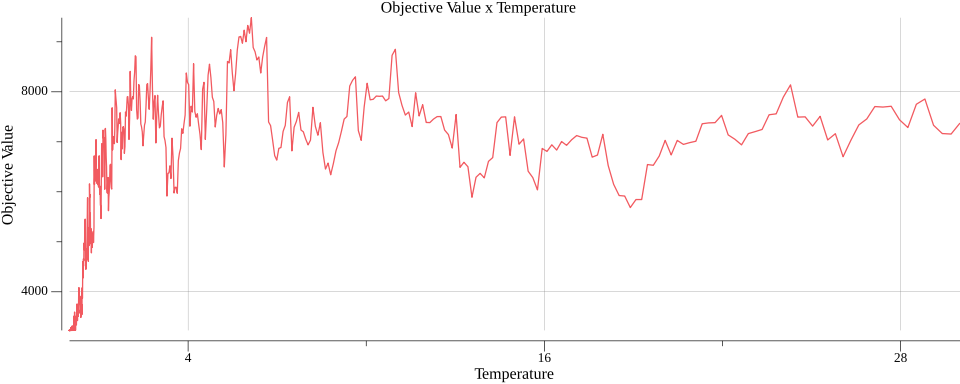
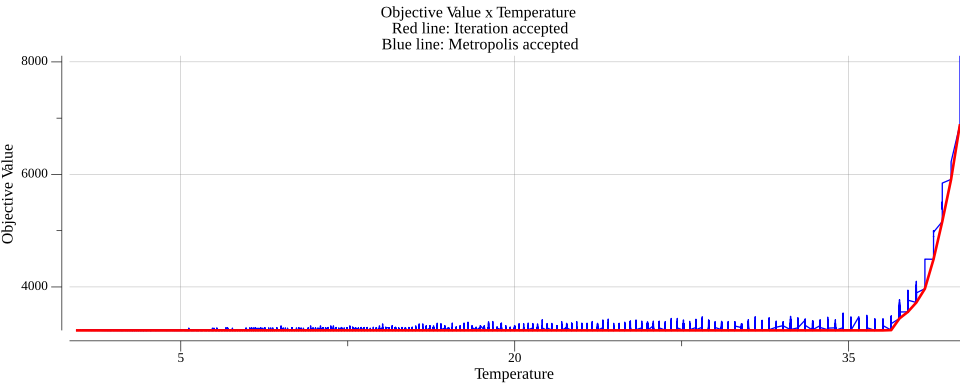
added metropolis

diff --git a/meta-heuristica/simulated_annealing/simulated_annealing.go b/meta-heuristica/simulated_annealing/simulated_annealing.go
@@ -1,8 +1,10 @@
 package simulated_annealing
 
 import (
+	"fmt"
 	"math"
 	"math/rand"
+	"sort"
 	"time"
 
 	"gonum.org/v1/plot/plotter"
@@ -22,7 +24,7 @@ func (sai SimulatedAnnealingInstance) VerifySolution() bool {
 	return true
 }
 
-func (sai SimulatedAnnealingInstance) VerifySolution2(walkOrder []int) bool {
+func (sai SimulatedAnnealingInstance) VerifyThisSolution(walkOrder []int) bool {
 	currentLoad := sai.ProblemInstance.GetInitialLoad()
 
 	for _, step := range walkOrder {
@@ -90,7 +92,7 @@ func (sai SimulatedAnnealingInstance) GetFirstSolution() []int {
 	for p := make([]int, len(orig)); p[0] < len(p); nextPerm(p) {
 		permutation := getPerm(orig, p)
 		permutation = append(permutation, 0)
-		if sai.VerifySolution2(permutation) {
+		if sai.VerifyThisSolution(permutation) {
 			return permutation
 		}
 	}
@@ -191,7 +193,7 @@ func (sai SimulatedAnnealingInstance) GetNeighbor(except [][]int) []int {
 				continue
 			}
 
-			valid := sai.VerifySolution2(copied)
+			valid := sai.VerifyThisSolution(copied)
 			if valid {
 				return copied
 			}
@@ -223,7 +225,39 @@ func (sai SimulatedAnnealingInstance) GetNeighbors() [][]int {
 				continue
 			}
 
-			valid := sai.VerifySolution2(copied)
+			valid := sai.VerifyThisSolution(copied)
+			if valid {
+				neighbors = append(neighbors, copied)
+			}
+		}
+	}
+
+	return neighbors
+}
+
+func (sai SimulatedAnnealingInstance) GetNeighborsOfSolution(solution []int) [][]int {
+	neighbors := make([][]int, 0)
+	for i := 0; i < len(solution); i++ {
+		for j := 0; j < len(solution); j++ {
+			copied := make([]int, len(solution))
+
+			copy(copied, solution)
+
+			a := copied[i]
+			b := copied[j]
+
+			if a == 0 || b == 0 {
+				continue
+			}
+
+			copied[i] = b
+			copied[j] = a
+
+			if isEqual(copied, solution) {
+				continue
+			}
+
+			valid := sai.VerifyThisSolution(copied)
 			if valid {
 				neighbors = append(neighbors, copied)
 			}
@@ -241,74 +275,109 @@ func randInt(min, max int) int {
 	return rand.Intn(max-min) + min
 }
 
+func randFloat(min, max float32) float32 {
+	if max-min == 0 {
+		return 0
+	}
+	return min + rand.Float32()*(max-min)
+}
+
 func getRandomNeighborExcept(neighbors [][]int, except [][]int) []int {
 	toGet := randInt(0, len(neighbors)-1)
 	for containsArr(neighbors[toGet], except) {
-		toGet = randInt(0, len(neighbors))
+		toGet = randInt(0, len(neighbors)-1)
 	}
 
 	return neighbors[toGet]
 }
 
+func (sai *SimulatedAnnealingInstance) metropolis(neighbors [][]int, T float32, params SimulatedAnnealingParams) Solution {
+	sol := Solution{
+		WalkOrder:        sai.Solution.WalkOrder,
+		TraveledDistance: sai.Solution.TraveledDistance,
+	}
+
+	acceptances := 0
+	count := 0
+	used := [][]int{}
+
+	//neighborToGet := 0
+	sort.SliceStable(neighbors, func(i, j int) bool {
+		return sai.ObjectiveValueWithSolution(neighbors[i]) < sai.ObjectiveValueWithSolution(neighbors[j])
+	})
+	for {
+		si := getRandomNeighborExcept(neighbors, [][]int{})
+
+		siVal := sai.ObjectiveValueWithSolution(si)
+		currVal := sai.ObjectiveValue()
+		delta := siVal - currVal
+		random := randFloat(0, 1)
+		if delta <= 0 || (math.Exp(float64(float32(-delta)/(T)))) > float64(random) {
+			sol.WalkOrder = si
+			sol.TraveledDistance = siVal
+			acceptances++
+			neighbors = sai.GetNeighborsOfSolution(sol.WalkOrder)
+			used = append(used, si)
+
+		}
+
+		count++
+		if acceptances >= params.MaxAcceptances || count >= params.MetropolisLimit {
+			break
+		}
+	}
+	sai.MetropolisPoints = append(sai.MetropolisPoints, plotter.XY{X: float64(T), Y: float64(sol.TraveledDistance)})
+	return sol
+}
+
 func (sai *SimulatedAnnealingInstance) Solve(timeLimit int64, params SimulatedAnnealingParams) {
 	sai.Solution = &Solution{
-		BKV:       0,
-		WalkOrder: make([]int, 0),
+		TraveledDistance: 0,
+		WalkOrder:        make([]int, 0),
 	}
 	sai.Solution.WalkOrder = sai.GenerateValidRandomInitialSolution(sai.ProblemInstance.N)
-	sai.Solution.BKV = sai.ObjectiveValue()
+	sai.Solution.TraveledDistance = sai.ObjectiveValue()
 
 	T := float32(params.T0)
 	j := 1
-	successes := 0
 
 	solutions := [][]int{}
+
 	for true {
 		i := 1
-		successes = 0
 
 		neighbors := sai.GetNeighbors()
-		iterationSolutions := make([][]int, 0)
 		for true {
-			used := [][]int{}
-			si := getRandomNeighborExcept(neighbors, used)
-			siVal := sai.ObjectiveValueWithSolution(si)
-			currVal := sai.ObjectiveValue()
-			delta := siVal - currVal
-			if delta <= 0 || (math.Exp(float64(float32(-delta)/(T)))) > float64(randInt(0, 1)) {
-				// accepts new solution
-				sai.Solution.WalkOrder = si
-				sai.Solution.BKV = siVal
-				successes++
-				iterationSolutions = append(iterationSolutions, si)
+			sl := sai.metropolis(neighbors, T, params)
+			currentObjectiveValue := sai.ObjectiveValue()
+
+			if sl.TraveledDistance <= currentObjectiveValue {
+				sai.Solution = &sl
 			}
 
-			i += 1
-			used = append(used, si)
-			if successes >= params.L || i > params.P || len(used) >= sai.ProblemInstance.N*sai.ProblemInstance.N /* should stop if all neighbors were tested already */ {
+			i++
+			if i > params.P {
 				break
 			}
 		}
 
 		sai.Points = append(sai.Points, plotter.XY{
 			X: float64(T),
-			Y: float64(sai.Solution.BKV),
+			Y: float64(sai.Solution.TraveledDistance),
 		})
 
 		T = params.Alpha * T
 		j += 1
 
 		solutions = append(solutions, sai.Solution.WalkOrder)
-
-		if successes == 0 || T < float32(params.TF) {
+		fmt.Println("Temp:", T, "Val: ", sai.ObjectiveValue())
+		if T < float32(params.TF) {
 			break
 		}
 	}
 
-	sai.Solution.WalkOrder = sai.getBest(solutions)
-
 	sai.Solved = true
-	sai.Solution.BKV = sai.ObjectiveValue()
+	sai.Solution.TraveledDistance = sai.ObjectiveValue()
 }
 
 func (sai SimulatedAnnealingInstance) getBest(solutions [][]int) []int {

diff --git a/meta-heuristica/main.go b/meta-heuristica/main.go
@@ -2,6 +2,7 @@ package main
 
 import (
 	"fmt"
+	"image/color"
 	"log"
 	"math/rand"
 	"time"
@@ -10,7 +11,6 @@ import (
 	"github.com/reonardoleis/simulated-annealing-tsp-mod/simulated_annealing"
 	"gonum.org/v1/plot"
 	"gonum.org/v1/plot/plotter"
-	"gonum.org/v1/plot/plotutil"
 	"gonum.org/v1/plot/vg"
 )
 
@@ -25,25 +25,39 @@ func main() {
 	simulatedAnnealingInstance := simulated_annealing.NewSimulatedAnnealingInstance(instance)
 
 	simulatedAnnealingInstance.Solve(0, simulated_annealing.SimulatedAnnealingParams{
-		T0:    30,    // Defines the initial temperature
-		TF:    0.001, // Defines the final temperature
-		P:     1000,  // Defines number of iterations per cycle, will be upper bounded by the maximum number of neighbors
-		L:     500,   // Defines how the maximum of (maybe) better solutions that can be found each iteration
-		Alpha: 0.99,  // Defines the temperature "decay" coefficient
+		T0:              40,    // Defines the initial temperature
+		TF:              0.001, // Defines the final temperature
+		P:               125,   // Defines number of metropolis calls per cycle
+		MaxAcceptances:  50,    // Defines how the maximum of (maybe) better solutions that can be found each metropolis call
+		MetropolisLimit: 175,   // Sets a limit for the number of iterations on metropolis method
+		Alpha:           0.99,  // Defines the temperature "decay" coefficient
 	})
 
-	fmt.Println("Smallest route: ", simulatedAnnealingInstance.Solution.BKV)
+	fmt.Println("Smallest route: ", simulatedAnnealingInstance.Solution.TraveledDistance)
 
 	// Generates the plot
 	p := plot.New()
-	p.Title.Text = "Objective Value x Temperature"
+	p.Title.Text = "Objective Value x Temperature\nRed line: Iteration accepted\nBlue line: Metropolis accepted"
 	p.X.Label.Text = "Temperature"
 	p.Y.Label.Text = "Objective Value"
 	p.Add(plotter.NewGrid())
-	err = plotutil.AddLines(p, "", simulatedAnnealingInstance.Points)
+
+	l, err := plotter.NewLine(simulatedAnnealingInstance.MetropolisPoints)
 	if err != nil {
 		log.Fatalln(err.Error())
 	}
+
+	l.LineStyle.Color = color.RGBA{R: 0, G: 0, B: 255, A: 255}
+	p.Add(l)
+
+	l, err = plotter.NewLine(*&simulatedAnnealingInstance.Points)
+	if err != nil {
+		log.Fatalln(err.Error())
+	}
+
+	l.LineStyle.Width = l.LineStyle.Width * 2
+	l.LineStyle.Color = color.RGBA{R: 255, G: 0, B: 0, A: 255}
+	p.Add(l)
 
 	if err = p.Save(10*vg.Inch, 4*vg.Inch, "plot.png"); err != nil {
 		log.Fatalln(err.Error())

diff --git a/meta-heuristica/simulated_annealing/types.go b/meta-heuristica/simulated_annealing/types.go
@@ -6,33 +6,38 @@ import (
 )
 
 type SimulatedAnnealingInstance struct {
-	ProblemInstance models.Instance
-	Solution        *Solution
-	Solved          bool
-	Points          plotter.XYs
+	ProblemInstance  models.Instance
+	Solution         *Solution
+	Solved           bool
+	Points           plotter.XYs
+	MetropolisPoints plotter.XYs
+	SolutionsVisited [][]int
 }
 
 type Solution struct {
-	BKV       int64
-	WalkOrder []int
+	TraveledDistance int64
+	WalkOrder        []int
 }
 
 type SimulatedAnnealingParams struct {
-	T0    int
-	TF    float32
-	P     int
-	L     int
-	Alpha float32
+	T0              int
+	TF              float32
+	P               int
+	MaxAcceptances  int
+	MetropolisLimit int
+	Alpha           float32
 }
 
 func NewSimulatedAnnealingInstance(problemInstance models.Instance) SimulatedAnnealingInstance {
 	return SimulatedAnnealingInstance{
 		ProblemInstance: problemInstance,
 		Solution: &Solution{
-			BKV:       0,
-			WalkOrder: []int{},
+			TraveledDistance: 0,
+			WalkOrder:        []int{},
 		},
-		Solved: false,
-		Points: make(plotter.XYs, 0),
+		Solved:           false,
+		Points:           make(plotter.XYs, 0),
+		MetropolisPoints: make(plotter.XYs, 0),
+		SolutionsVisited: [][]int{},
 	}
 }
